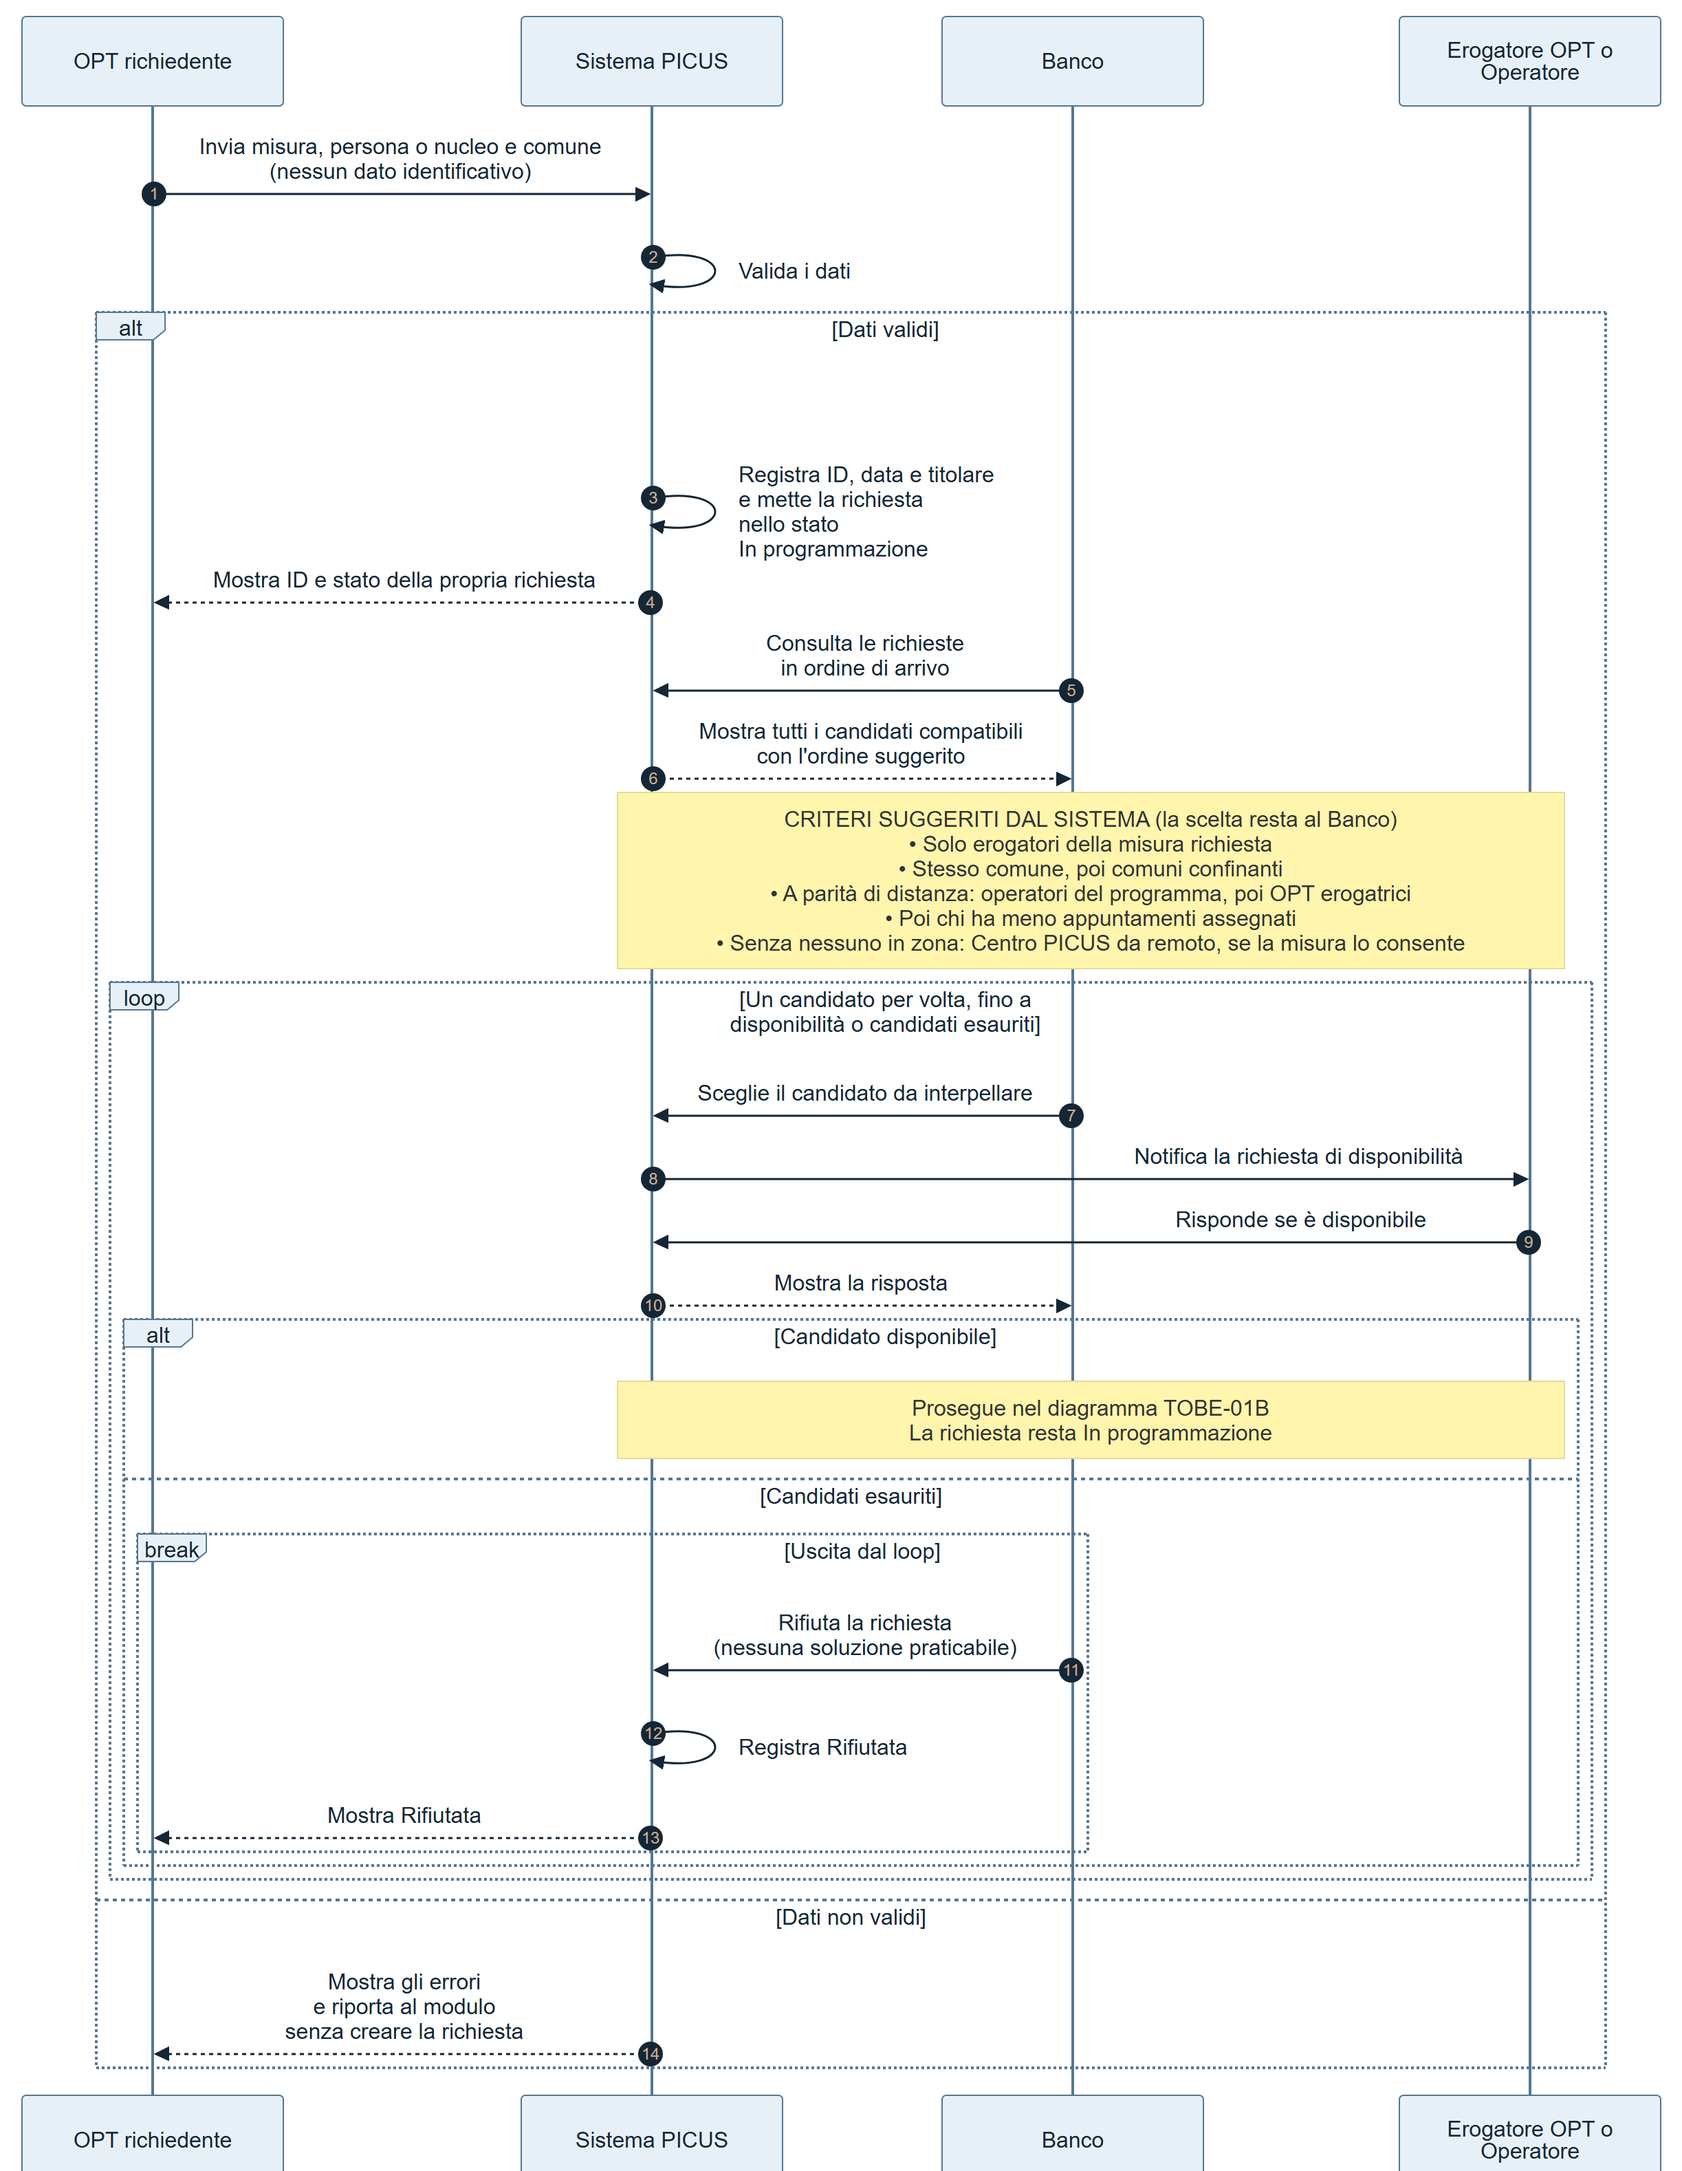
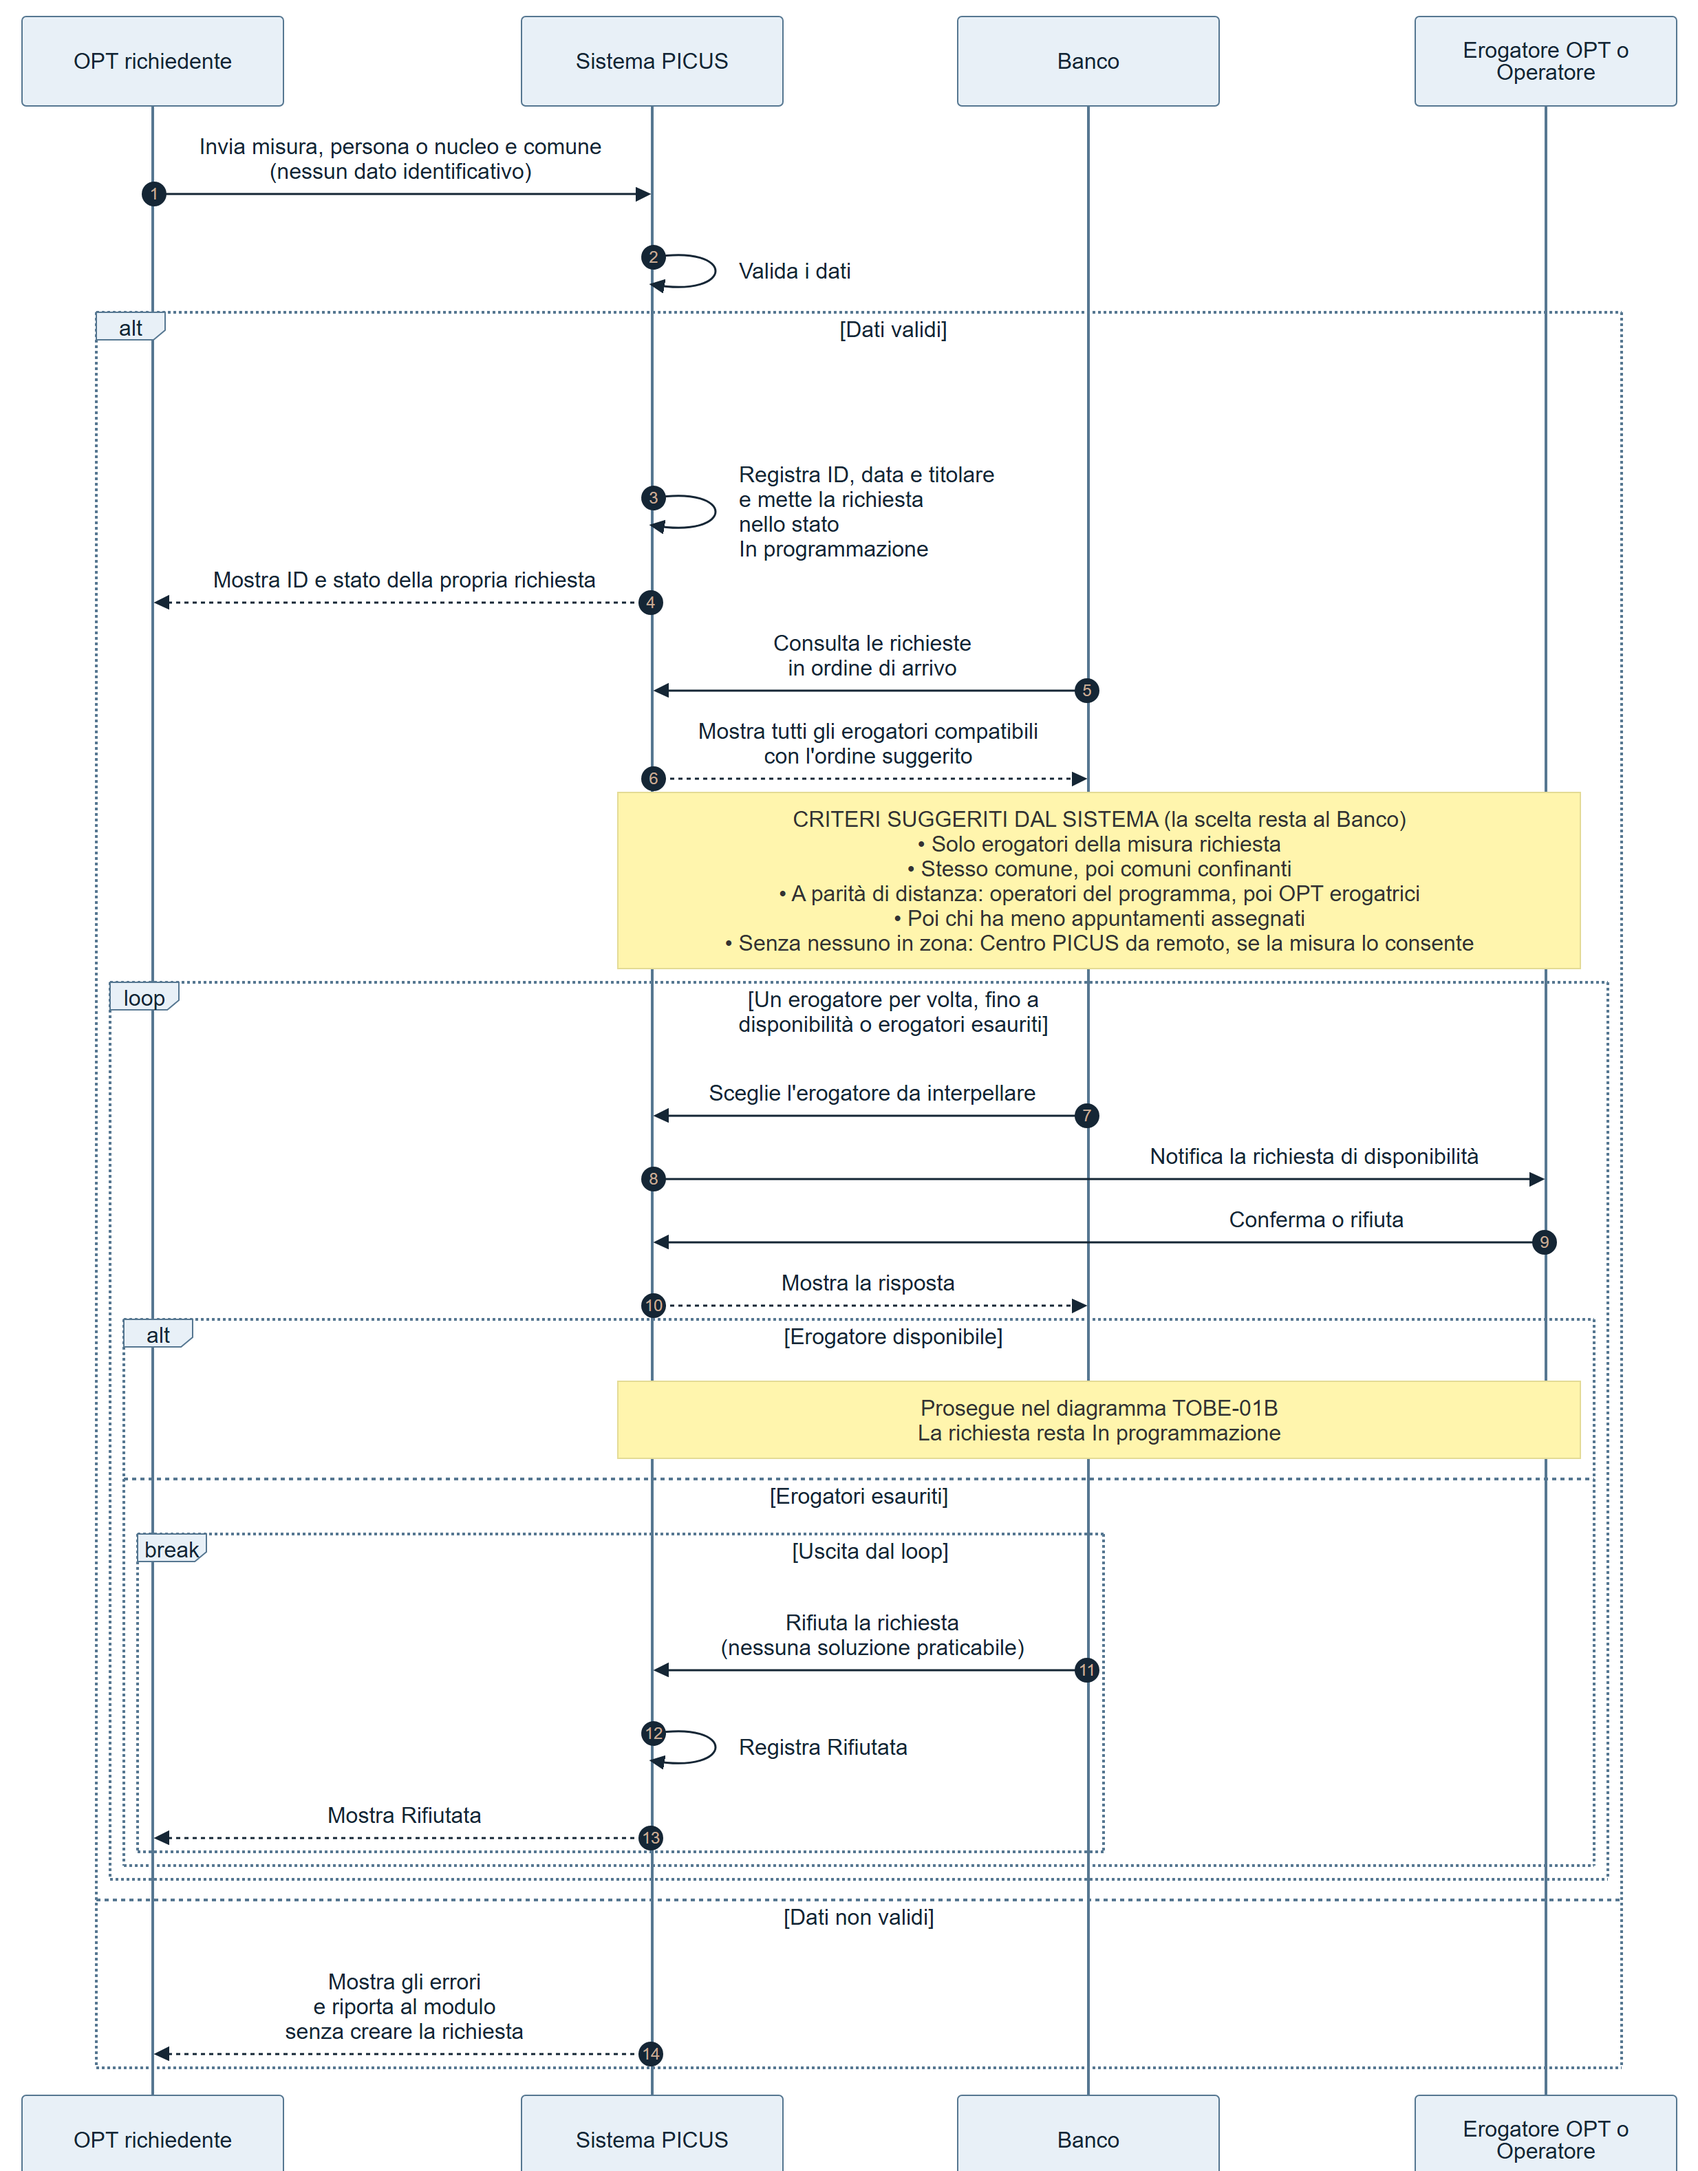
docs(to-be): usa erogatori al posto di candidati e conferma o rifiuta (#60)
# Pull Request

## Problema e risultato

I diagrammi to-be parlavano di "candidati" per indicare gli erogatori e
la risposta alla richiesta di disponibilità era "Risponde se è
disponibile". Ora si parla sempre di erogatori e la risposta è "Conferma
o rifiuta".

## Issue e criteri di accettazione

Refs #4 [S1-03] Proporre il processo to-be.

Contributo parziale: ritocchi di terminologia ai diagrammi già uniti con
la #39; il resto del processo non cambia.

## Modifiche e motivazioni

- **TOBE-01A:** "erogatori" al posto di "candidati" nell'elenco degli
erogatori compatibili, nella scelta e nel loop ("Un erogatore per volta,
fino a disponibilità o erogatori esauriti"), nei rami "[Erogatore
disponibile]" ed "[Erogatori esauriti]" e nei commenti del sorgente. La
risposta dell'erogatore (passo 9) è "Conferma o rifiuta".
- **TOBE-01B:** "Un erogatore ha dato la disponibilità", "[Mancato
accordo con l'erogatore]" e "Il Banco cerca l'erogatore successivo".
- **Guida:** "ricerca dell'erogatore uno per volta e rifiuto" e "il
Banco vede tutti gli erogatori compatibili con la misura".
- PNG e SVG rigenerati dai sorgenti Mermaid.

## Verifiche effettuate

- TOBE-01A e TOBE-01B sono stati riletti dopo la rigenerazione, senza
testi che toccano le lifeline.
- Nei sorgenti dei diagrammi e nella guida non restano occorrenze di
"candidat" né di "Risponde se".
- Nessuna revisione di gruppo e nessuna validazione del committente.

## Impatto e punti aperti
[…]

diff --git a/docs/requirements/guida-diagramma-to-be.md b/docs/requirements/guida-diagramma-to-be.md
@@ -10,7 +10,7 @@ committente presunte.
 
 | ID | Contenuto | File |
 | --- | --- | --- |
-| TOBE-01A | Validazione dei dati, ricerca dell'erogatore un candidato per volta e rifiuto | [Mermaid](diagrams/to-be/TOBE-01A-richieste-disponibilita.mmd), [PNG](diagrams/to-be/TOBE-01A-richieste-disponibilita.png), [SVG](diagrams/to-be/TOBE-01A-richieste-disponibilita.svg) |
+| TOBE-01A | Validazione dei dati, ricerca dell'erogatore uno per volta e rifiuto | [Mermaid](diagrams/to-be/TOBE-01A-richieste-disponibilita.mmd), [PNG](diagrams/to-be/TOBE-01A-richieste-disponibilita.png), [SVG](diagrams/to-be/TOBE-01A-richieste-disponibilita.svg) |
 | TOBE-01B | Accordo fra Banco ed erogatore, conferma del Banco e annullamento eccezionale | [Mermaid](diagrams/to-be/TOBE-01B-appuntamento-esito.mmd), [PNG](diagrams/to-be/TOBE-01B-appuntamento-esito.png), [SVG](diagrams/to-be/TOBE-01B-appuntamento-esito.svg) |
 | TOBE-02 | Scheda trimestrale degli operatori del Banco, dati quantitativi della OPT e inserimento ministeriale manuale | [Mermaid](diagrams/to-be/TOBE-02-rendicontazione.mmd), [PNG](diagrams/to-be/TOBE-02-rendicontazione.png), [SVG](diagrams/to-be/TOBE-02-rendicontazione.svg) |
 
@@ -51,7 +51,7 @@ l'erogazione nel ciclo della richiesta; la scelta va validata nella #29.
 
 ## Ricerca dell'erogatore
 
-Risposte del cliente: il Banco vede tutti i candidati compatibili con la misura e
+Risposte del cliente: il Banco vede tutti gli erogatori compatibili con la misura e
 ne interpella **uno per volta**, senza invii in parallelo. Il sistema può suggerire
 l'ordine con i criteri riportati nel diagramma; scelta e assegnazione restano al
 Banco. Servono la distanza fra comuni (stesso comune, confinanti) e il conteggio
